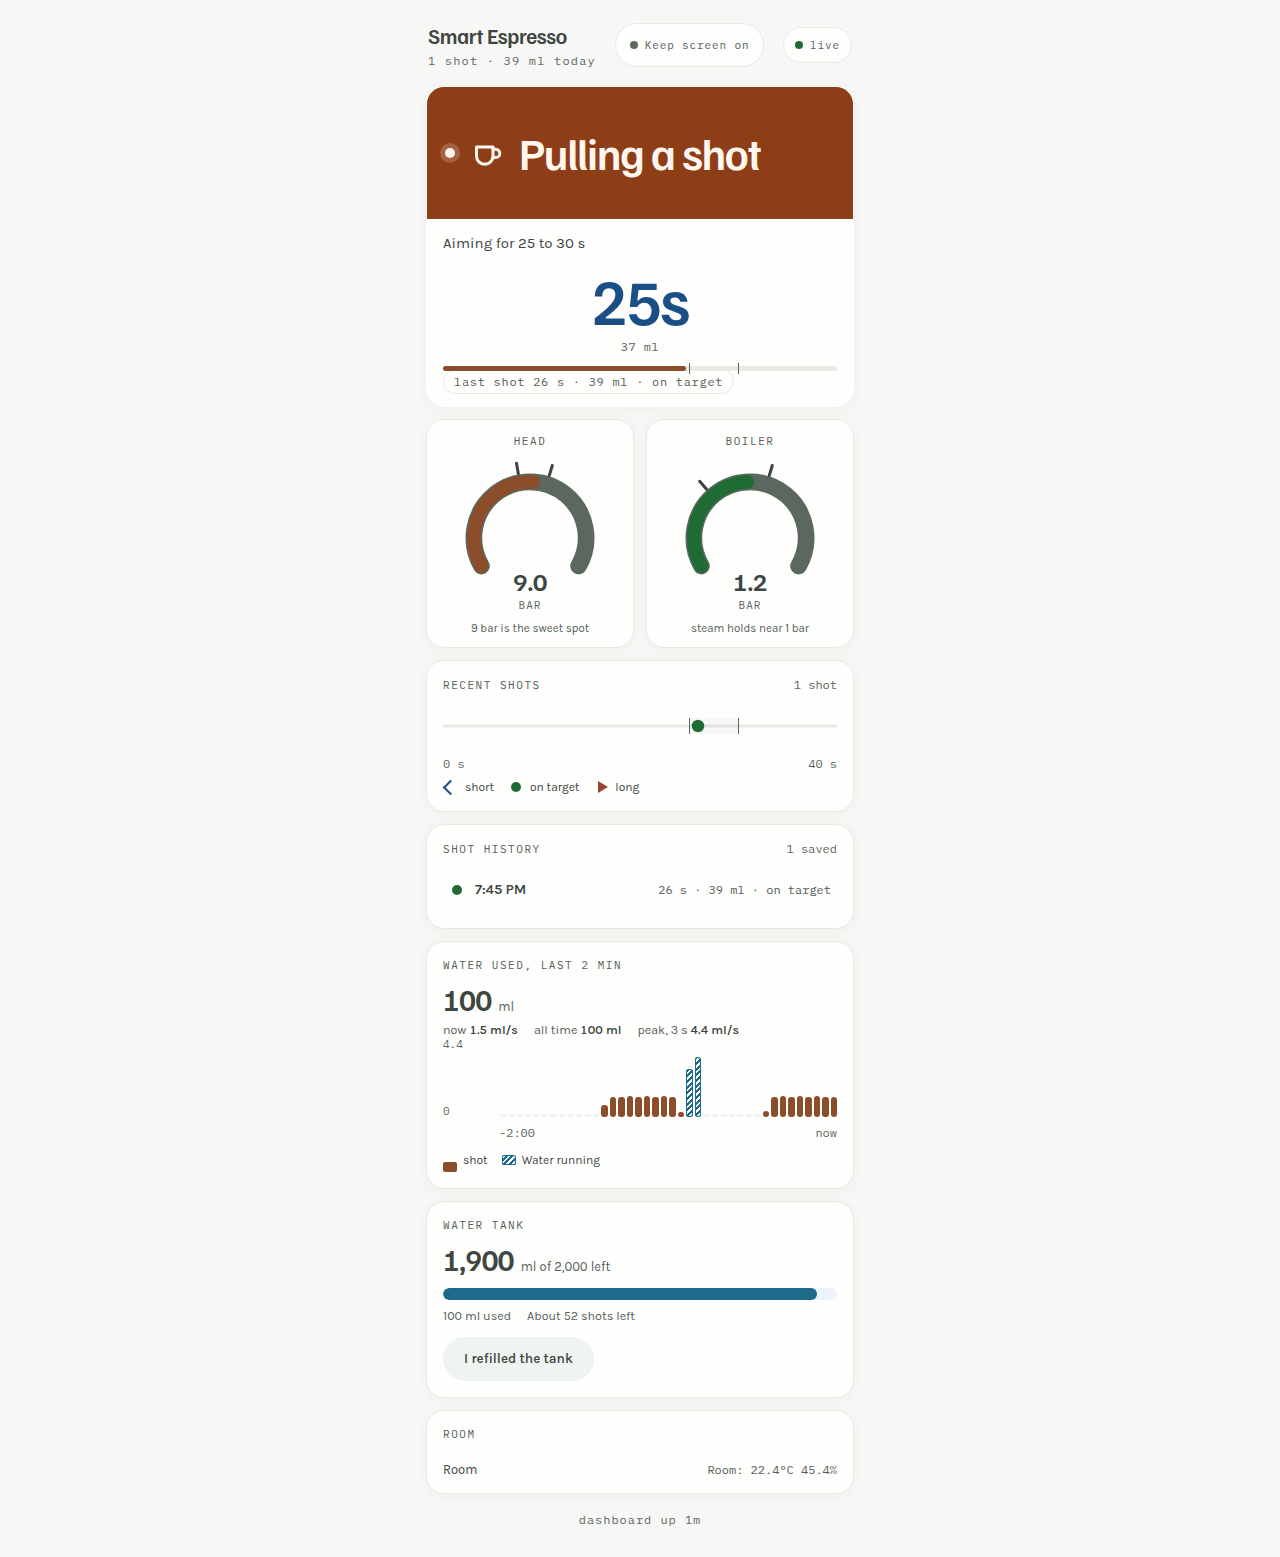
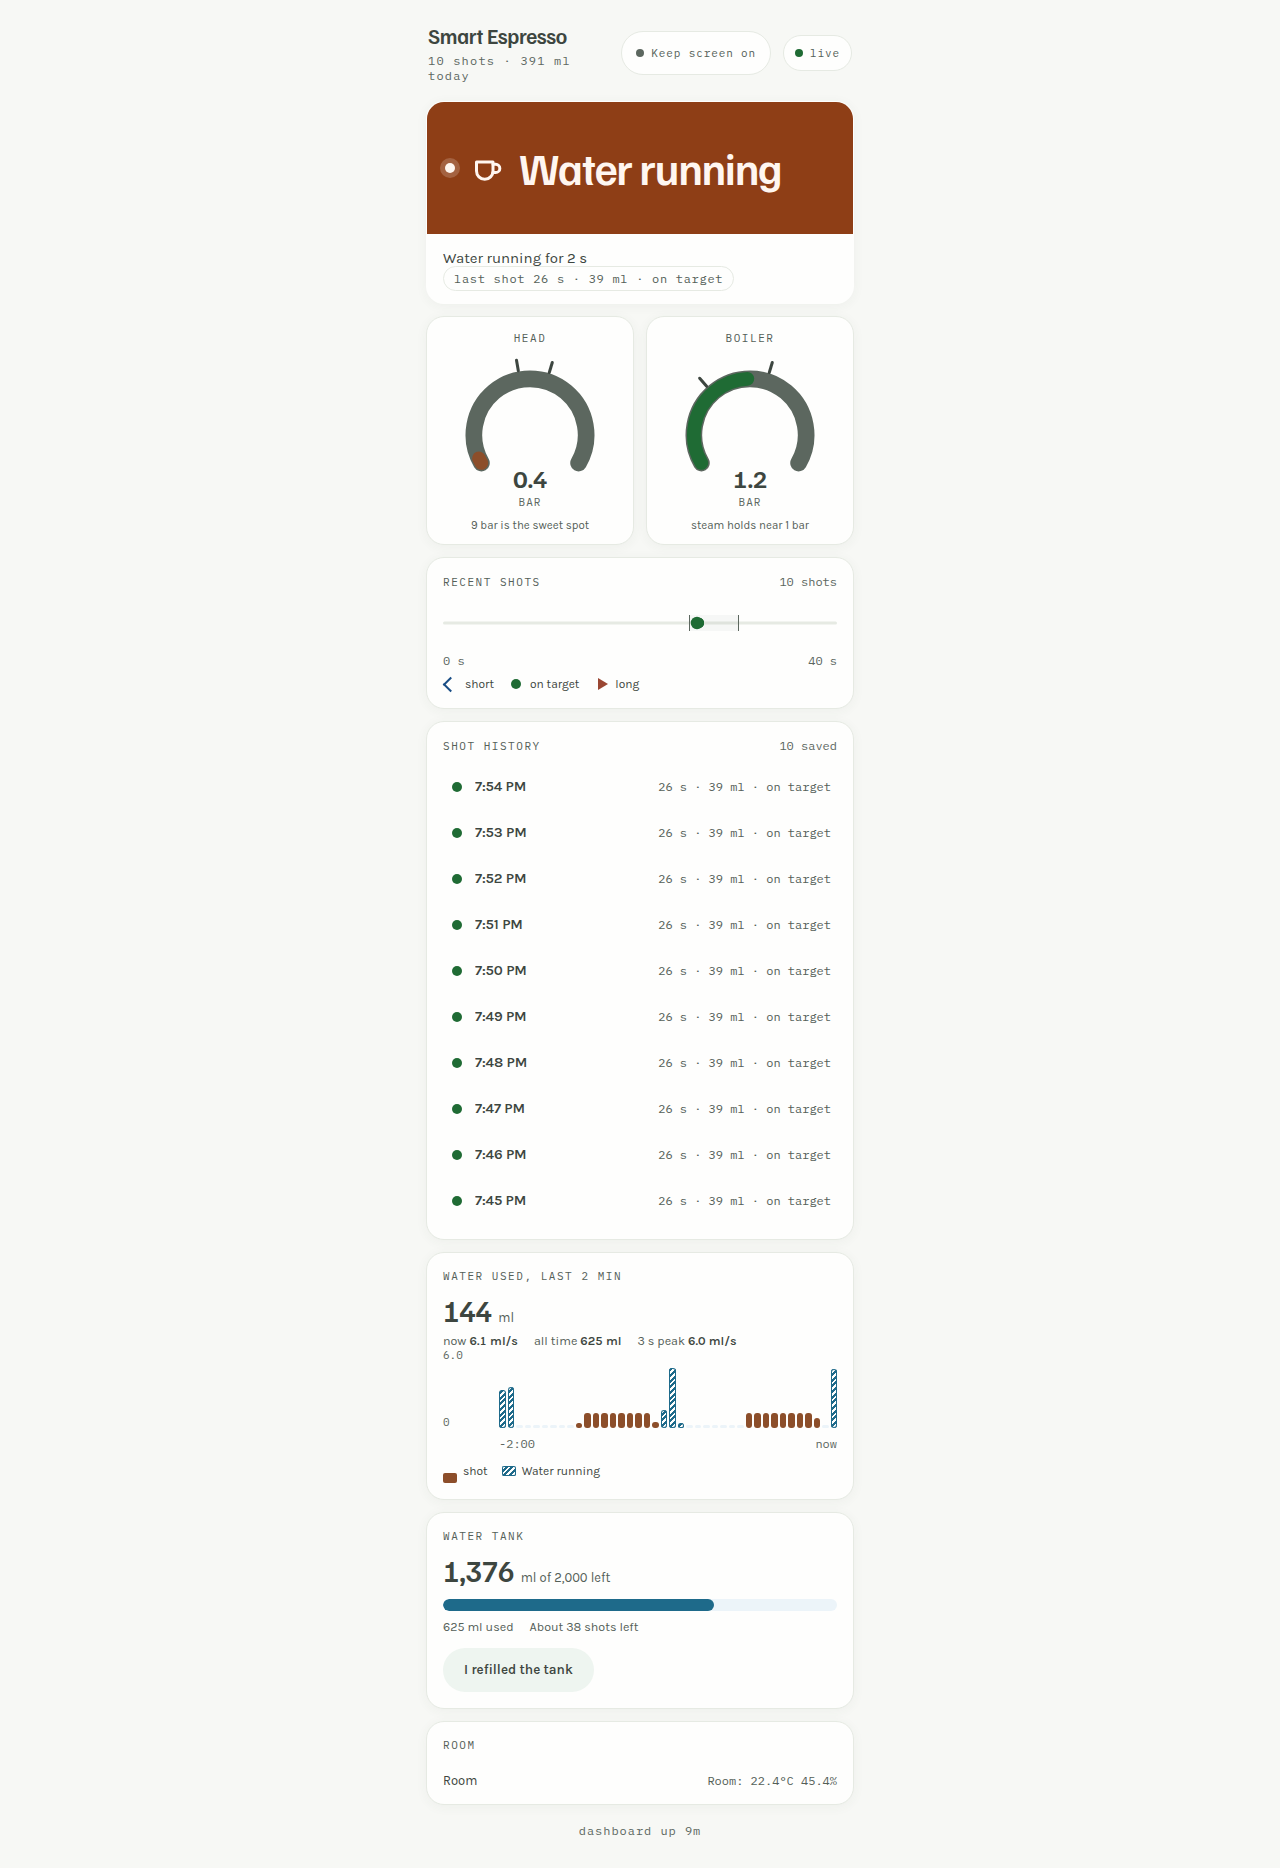
fix: label the chart peak from the bucket length
The flow card says 3 s peak when a bucket is 3 seconds, taken from the window and the bucket count rather than a fixed string.

diff --git a/smart_espresso/web/static/index.html b/smart_espresso/web/static/index.html
@@ -1243,7 +1243,7 @@
     <div class="meta">
       <span>now <b id="flow-rate">0.0 ml/s</b></span>
       <span>all time <b id="flow-total">0 ml</b></span>
-      <span>peak, 3 s <b id="flow-peak">0.0 ml/s</b></span>
+      <span><span id="flow-peak-label">peak</span> <b id="flow-peak">0.0 ml/s</b></span>
     </div>
     <div class="chart-wrap">
       <div class="chart-scale" aria-hidden="true">
@@ -2041,6 +2041,8 @@ function renderFlow(sensor) {
   // One bucket spans window/length seconds; its peak is a flow rate too.
   const bucketSeconds = sensor.window_seconds / sensor.chart.length;
   const peakRate = peak / bucketSeconds;
+  document.getElementById('flow-peak-label').textContent =
+    DashboardLogic.peakBucketLabel(bucketSeconds);
   document.getElementById('flow-peak').textContent = `${peakRate.toFixed(1)} ml/s`;
   document.getElementById('flow-scale-max').textContent =
     sensor.chart.some(ml => ml > 0) ? `${peakRate.toFixed(1)}` : '0';

diff --git a/smart_espresso/web/static/dashboard_logic.js b/smart_espresso/web/static/dashboard_logic.js
@@ -291,6 +291,16 @@
 
   // A water-chart bucket. Same head line as a live flush: water below
   // brew pressure is Water running, water at brew pressure is a shot.
+  function peakBucketLabel(seconds) {
+    if (typeof seconds !== "number" || !isFinite(seconds) || seconds <= 0) {
+      return "peak";
+    }
+    const rounded = Math.round(seconds);
+    const text =
+      Math.abs(seconds - rounded) < 0.05 ? String(rounded) : seconds.toFixed(1);
+    return text + " s peak";
+  }
+
   function flowBarKind(ml, headBar) {
     if (typeof ml !== "number" || !(ml > 0)) return "other";
     if (typeof headBar !== "number" || !isFinite(headBar)) return "other";
@@ -352,6 +362,7 @@
     offlineMessage: offlineMessage,
     isFlush: isFlush,
     flowBarKind: flowBarKind,
+    peakBucketLabel: peakBucketLabel,
     livePresentation: livePresentation,
     shownState: shownState,
     nearestTickIndex: nearestTickIndex,

diff --git a/smart_espresso/test/test_dashboard_logic.py b/smart_espresso/test/test_dashboard_logic.py
@@ -194,6 +194,9 @@ class TestGlance:
         assert call("logic.showOverBand(null, 10)") is False
 
     def test_a_flush_bucket_is_not_drawn_as_a_shot(self):
+        assert call("logic.peakBucketLabel(3)") == "3 s peak"
+        assert call("logic.peakBucketLabel(120 / 40)") == "3 s peak"
+        assert call("logic.peakBucketLabel(2.6)") == "2.6 s peak"
         assert call("logic.flowBarKind(24, 0.4)") == "flush"
         assert call("logic.flowBarKind(39, 9)") == "shot"
         assert call("logic.flowBarKind(0, 0.4)") == "other"
@@ -207,6 +210,8 @@ class TestGlance:
         assert "Water running" in page
         assert "bar flush" in page or "swatch flush" in page
         assert "showOverBand(sensor.bar, el.bandTop)" in page
+        assert "peakBucketLabel" in page
+        assert "peak, 3 s" not in page
 
     def test_glance_follows_the_wake_lock_or_a_pin(self):
         assert call("logic.glanceOn(true, false)") is True
